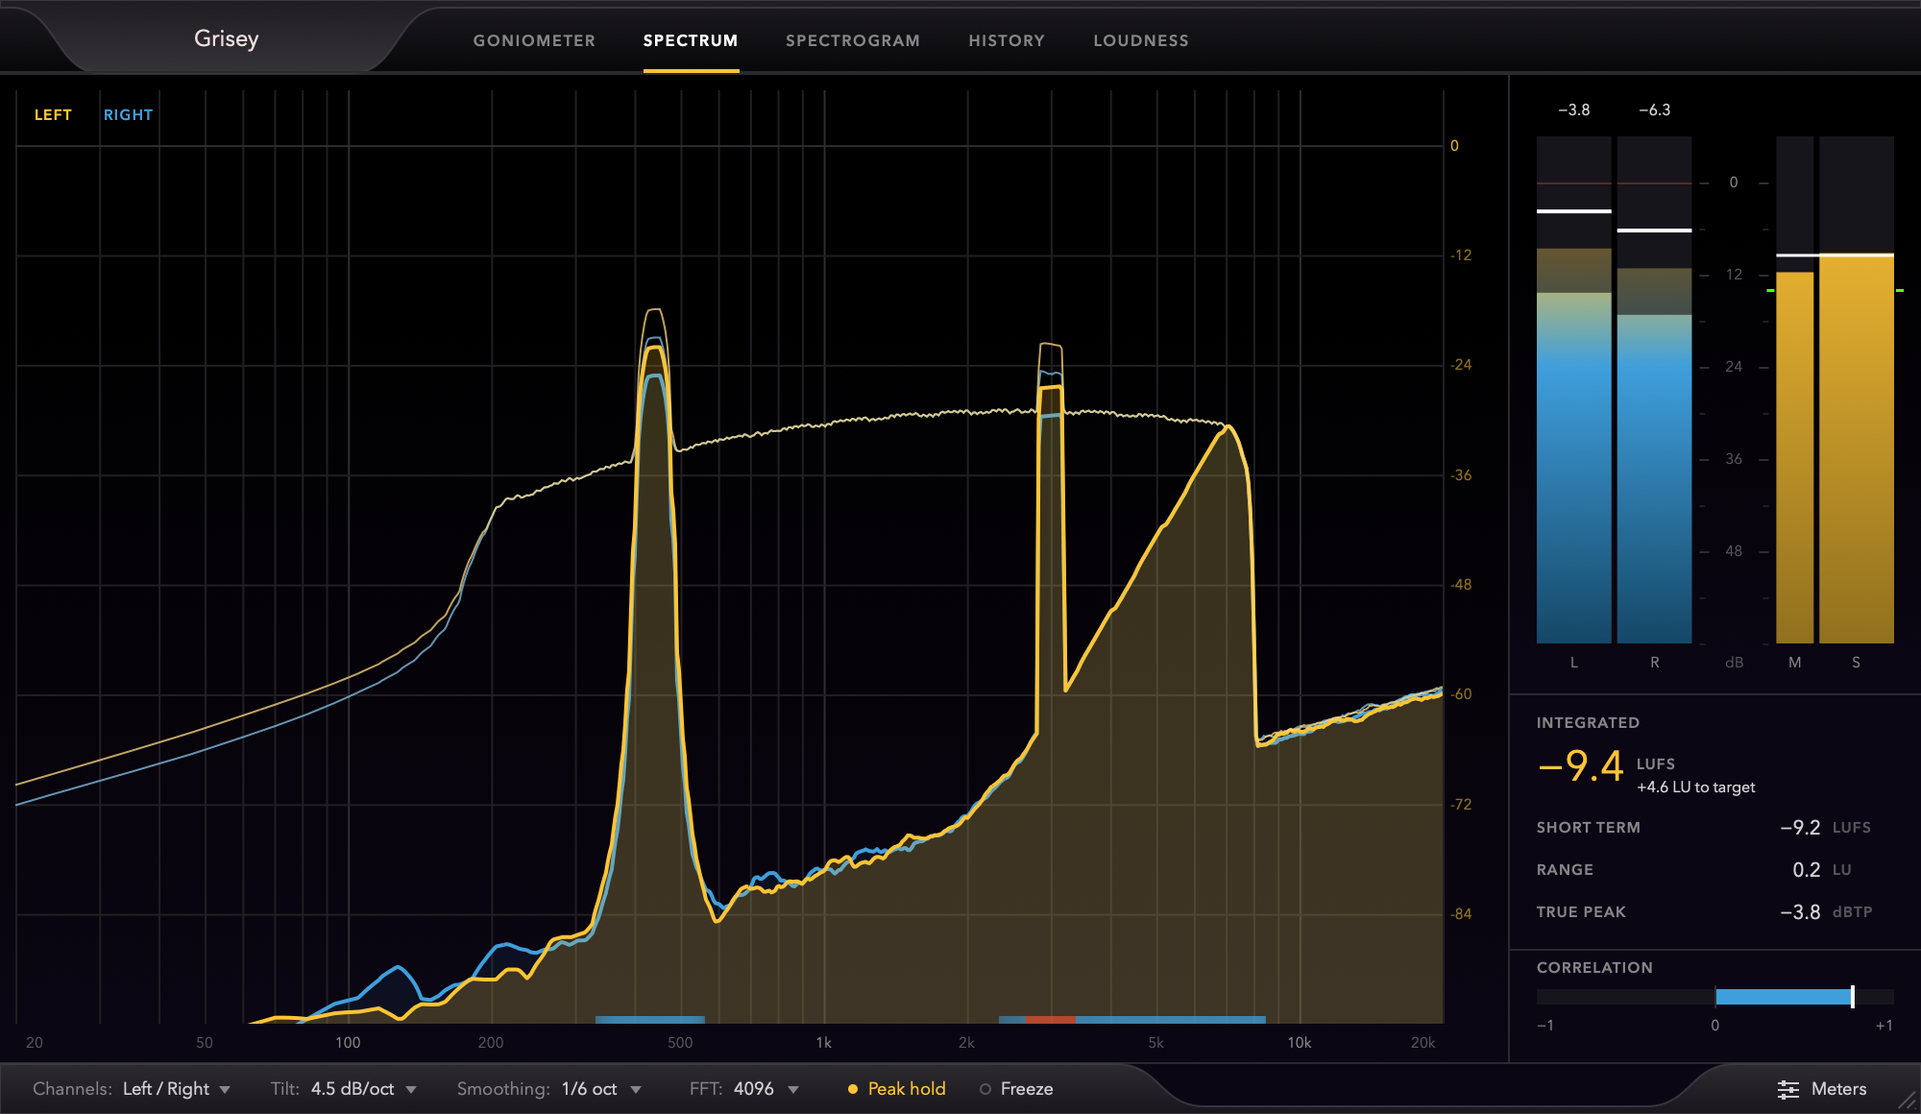
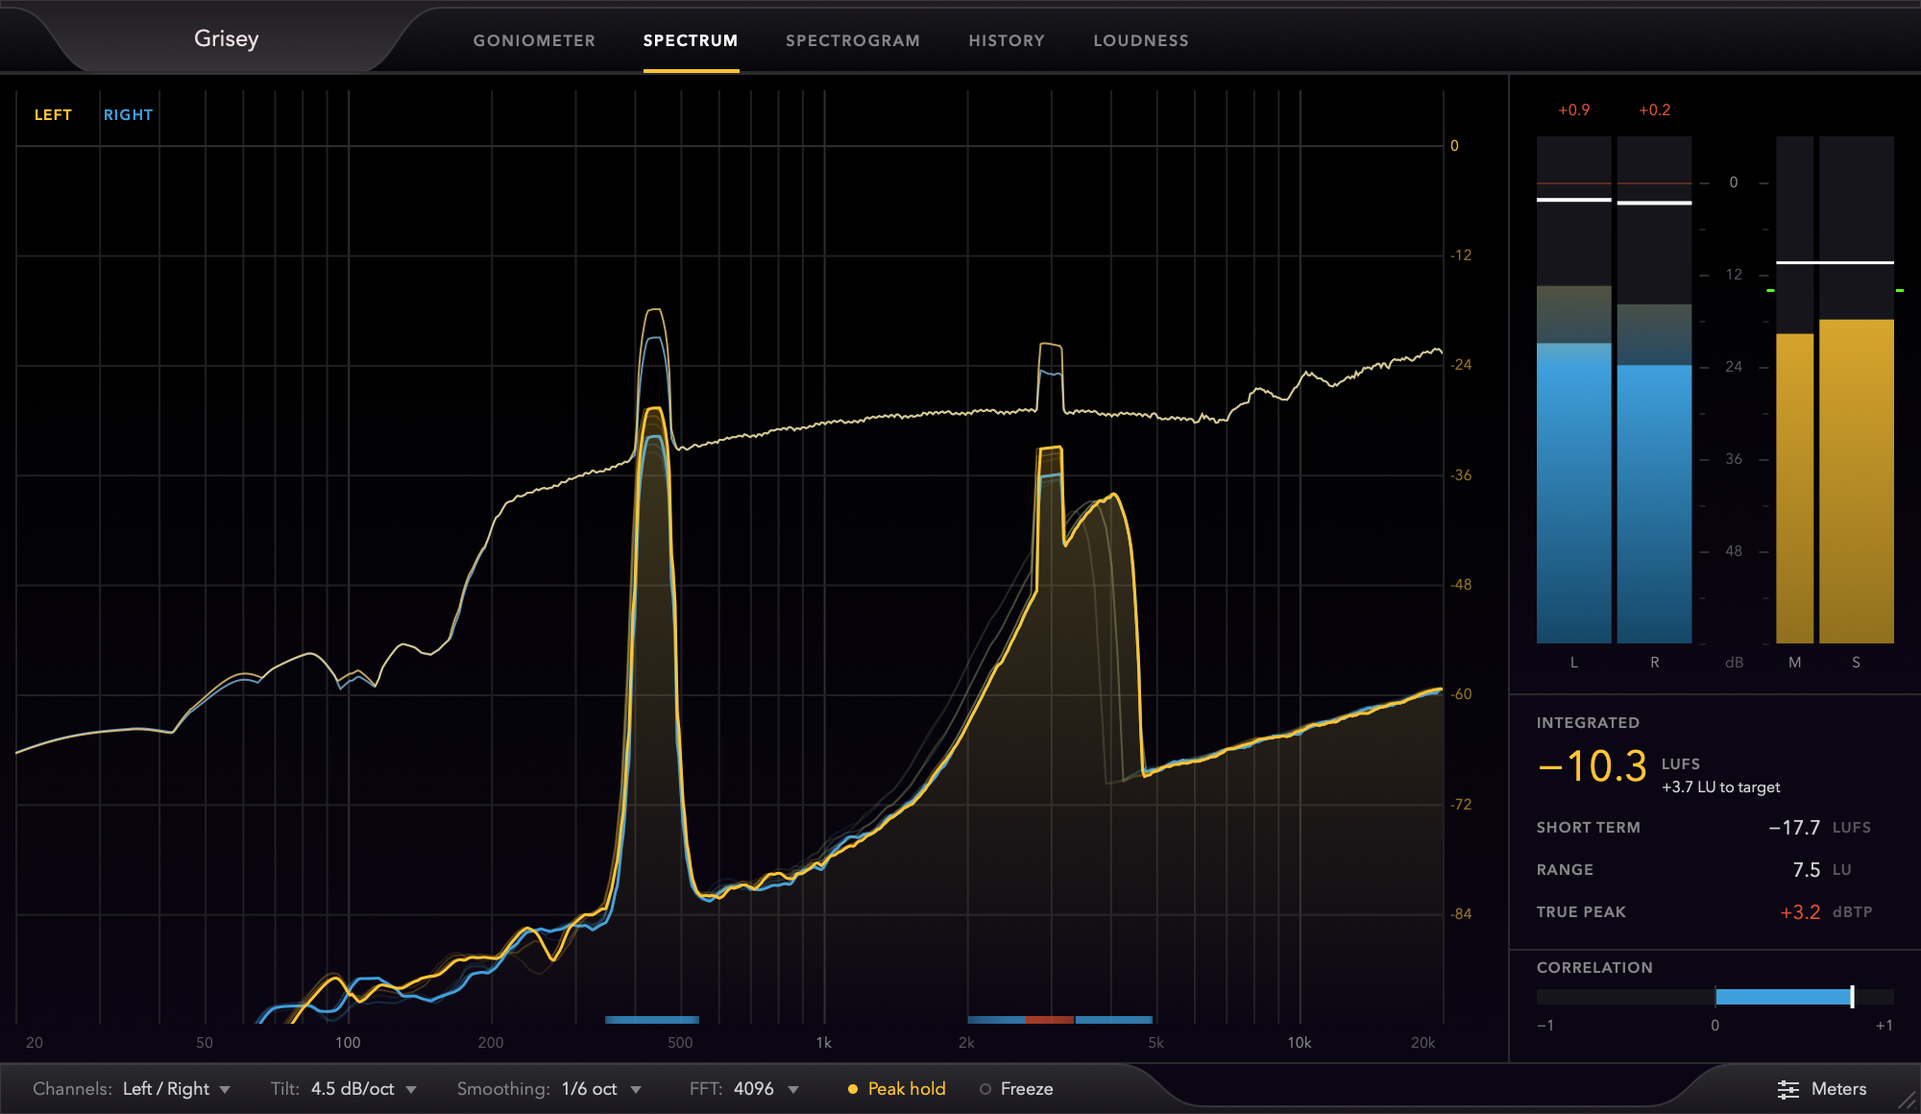
Make the spectrum move like an analyzer
- The curves rise to a new level in 25 ms and fall back over 300 ms.
  They move in every frame, not only when there is a new spectrum, so
  the motion is smooth, and they stand still while frozen.
- Three faint trails behind each curve show where it was a moment ago.
  They are drawn at a third of the resolution, which keeps the view at
  what it cost before: 14% of a core at 30 frames per second.
- A glow beneath the line that fades out downwards, in place of a flat
  fill down to the floor, and a thinner line
- At low frequencies, where the display has many points for every bin,
  the curve is a smooth spline through the bins' levels in decibels.
  Straight lines between them had shown as a row of arches. The spline
  is monotone (Fritsch-Carlson), so it cannot overshoot: a Catmull-Rom
  spline read a full-scale tone 6.8 dB high, because a tone stands
  100 dB above the bins beside it. A test now holds that down.

diff --git a/Source/Views/SpectrumView.cpp b/Source/Views/SpectrumView.cpp
@@ -76,7 +76,7 @@ void SpectrumView::paint(juce::Graphics& g)
 {
     grid.draw(g, getLocalBounds(), true, [this](juce::Graphics& layer) { paintGrid(layer); });
 
-    if (curves[0].empty())
+    if (shown[0].empty())
         return;
 
     {
@@ -89,15 +89,29 @@ void SpectrumView::paint(juce::Graphics& g)
         {
             const auto i = (size_t)index;
 
-            // A flat, translucent fill beneath a solid line
-            g.setColour(colours[i].withAlpha(index == 0 ? Theme::accentFillAlpha : Theme::secondFillAlpha));
-            g.fillPath(makePath(curves[i], true));
+            // Where the curve was a moment ago, fainter the longer ago it was
+            for (int age = numTrails; age >= 1; --age)
+            {
+                const auto& trail = trails[(size_t)((nextTrail - age + 2 * numTrails) % numTrails)][i];
+                if (trail.size() == shown[i].size())
+                {
+                    g.setColour(colours[i].withAlpha(0.42f * (float)(numTrails + 1 - age) / (float)(numTrails + 1)));
+                    g.strokePath(makePath(trail, false, trailPointStep), juce::PathStrokeType(1.f));
+                }
+            }
+
+            // A glow beneath the line, which fades out towards the bottom. The second curve usually
+            // lies over the first, as left and right do, so its glow is fainter, or the two would
+            // mix into a muddy color.
+            g.setGradientFill(juce::ColourGradient(colours[i].withAlpha(index == 0 ? 0.34f : 0.12f), 0.f, (float)plot.getY(),
+                                                   colours[i].withAlpha(0.f), 0.f, (float)plot.getBottom(), false));
+            g.fillPath(makePath(shown[i], true));
 
             g.setColour(colours[i]);
-            g.strokePath(makePath(curves[i], false), juce::PathStrokeType(Theme::curveThickness, juce::PathStrokeType::curved));
+            g.strokePath(makePath(shown[i], false), juce::PathStrokeType(1.5f, juce::PathStrokeType::curved));
 
             // The peak hold is a thin, paler line of the same color
-            if (settings.peakHold && peakHolds[i].size() == curves[i].size())
+            if (settings.peakHold && peakHolds[i].size() == shown[i].size())
             {
                 g.setColour(colours[i].brighter(0.6f).withAlpha(0.75f));
                 g.strokePath(makePath(peakHolds[i], false), juce::PathStrokeType(1.f));
@@ -133,9 +147,9 @@ void SpectrumView::paintReadout(juce::Graphics& g)
     g.fillRect((float)position.x, (float)plot.getY(), 1.f, (float)plot.getHeight());
 
     // The level of the first curve at this frequency
-    const auto index = (size_t)juce::jlimit(0, (int)curves[0].size() - 1,
-        juce::roundToInt((float)(position.x - plot.getX()) / (float)juce::jmax(1, plot.getWidth()) * (float)(curves[0].size() - 1)));
-    const float level = curves[0][index];
+    const auto index = (size_t)juce::jlimit(0, (int)shown[0].size() - 1,
+        juce::roundToInt((float)(position.x - plot.getX()) / (float)juce::jmax(1, plot.getWidth()) * (float)(shown[0].size() - 1)));
+    const float level = shown[0][index];
 
     // A point on the curve, bright with a dark outline
     const auto point = juce::Rectangle<float>(10.f, 10.f).withCentre({ (float)position.x, yOf(juce::jmax(level, minDecibels)) });
@@ -158,51 +172,55 @@ void SpectrumView::paintReadout(juce::Graphics& g)
     g.drawText(text, box, juce::Justification::centred);
 }
 
-void SpectrumView::update(bool hasNewSpectra, const Settings& newSettings)
+void SpectrumView::update(bool hasNewSpectra, const Settings& newSettings, float elapsedSeconds, bool held)
 {
     // One point per pixel is as fine as the screen can show
     const int numPoints = juce::jmax(2, plot.getWidth());
     const bool settingsChanged = numPoints != display.numPoints || !(newSettings == settings);
 
-    if (!hasNewSpectra && !settingsChanged)
-        return;
-
-    // The peak hold starts afresh whenever it would no longer be comparable
+    // Whatever is no longer comparable starts afresh
     if (settingsChanged)
+    {
         for (auto& hold : peakHolds)
             hold.clear();
+
+        for (auto& trail : trails)
+            for (auto& curve : trail)
+                curve.clear();
+    }
 
     settings = newSettings;
     display.numPoints = numPoints;
     display.tiltDbPerOctave = settings.tiltDbPerOctave;
     display.smoothingOctaves = settings.smoothingOctaves;
 
-    auto& engine = source.getEngine();
-    const auto sampleRate = source.getSampleRate();
-
-    engine.render(settings.midSide ? SpectrumEngine::Curve::mid : SpectrumEngine::Curve::left, display, sampleRate, curves[0]);
-    engine.render(settings.midSide ? SpectrumEngine::Curve::side : SpectrumEngine::Curve::right, display, sampleRate, curves[1]);
-
-    if (settings.peakHold)
+    if ((hasNewSpectra && !held) || settingsChanged)
     {
-        for (size_t i = 0; i < curves.size(); ++i)
+        auto& engine = source.getEngine();
+        const auto sampleRate = source.getSampleRate();
+
+        engine.render(settings.midSide ? SpectrumEngine::Curve::mid : SpectrumEngine::Curve::left, display, sampleRate, curves[0]);
+        engine.render(settings.midSide ? SpectrumEngine::Curve::side : SpectrumEngine::Curve::right, display, sampleRate, curves[1]);
+
+        if (settings.peakHold)
         {
-            if (peakHolds[i].size() != curves[i].size())
-                peakHolds[i] = curves[i];
+            for (size_t i = 0; i < curves.size(); ++i)
+            {
+                if (peakHolds[i].size() != curves[i].size())
+                    peakHolds[i] = curves[i];
 
-            for (size_t point = 0; point < curves[i].size(); ++point)
-                peakHolds[i][point] = juce::jmax(peakHolds[i][point], curves[i][point]);
+                for (size_t point = 0; point < curves[i].size(); ++point)
+                    peakHolds[i][point] = juce::jmax(peakHolds[i][point], curves[i][point]);
+            }
         }
-    }
 
-    // The correlation strip has one pixel per display point: blue where the channels are in phase,
-    // red where they are out of phase, and clear where they are unrelated or silent
-    engine.renderCorrelation(display, sampleRate, correlationBandOctaves, correlationQuietDb, correlation);
+        // The correlation strip has one pixel per display point: blue where the channels are in phase,
+        // red where they are out of phase, and clear where they are unrelated or silent
+        engine.renderCorrelation(display, sampleRate, correlationBandOctaves, correlationQuietDb, correlation);
 
-    if (correlationStrip.getWidth() != numPoints)
-        correlationStrip = juce::Image(juce::Image::ARGB, numPoints, 1, true);
+        if (correlationStrip.getWidth() != numPoints)
+            correlationStrip = juce::Image(juce::Image::ARGB, numPoints, 1, true);
 
-    {
         juce::Image::BitmapData pixels(correlationStrip, juce::Image::BitmapData::writeOnly);
         for (int point = 0; point < numPoints; ++point)
         {
@@ -213,10 +231,56 @@ void SpectrumView::update(bool hasNewSpectra, const Settings& newSettings)
         }
     }
 
-    repaint();
+    if (held || curves[0].empty())
+    {
+        if (settingsChanged)
+            repaint();
+
+        return;
+    }
+
+    // Move what is drawn towards the latest spectrum: quickly up, and slowly down
+    const float attack = 1.f - std::exp(-elapsedSeconds / attackSeconds);
+    const float release = 1.f - std::exp(-elapsedSeconds / releaseSeconds);
+    float furthestMoved = 0.f;
+
+    for (size_t i = 0; i < curves.size(); ++i)
+    {
+        // A curve that is new, or of a new length, starts where it is heading
+        if (shown[i].size() != curves[i].size())
+        {
+            shown[i] = curves[i];
+            furthestMoved = 100.f;
+            continue;
+        }
+
+        for (size_t point = 0; point < curves[i].size(); ++point)
+        {
+            // Below the bottom of the plot there is nothing to see, so nothing to wait for
+            const float target = juce::jmax(curves[i][point], minDecibels - 6.f);
+            const float from = juce::jmax(shown[i][point], minDecibels - 6.f);
+            const float to = from + (target - from) * (target > from ? attack : release);
+
+            furthestMoved = juce::jmax(furthestMoved, std::abs(to - from));
+            shown[i][point] = to;
+        }
+    }
+
+    // Keep a copy of where the curves are, every so often, for the trails
+    secondsSinceTrail += elapsedSeconds;
+    if (secondsSinceTrail >= trailIntervalSeconds)
+    {
+        secondsSinceTrail = 0.f;
+        trails[(size_t)nextTrail] = shown;
+        nextTrail = (nextTrail + 1) % numTrails;
+    }
+
+    // A twentieth of a decibel is less than a pixel
+    if (furthestMoved > 0.05f || settingsChanged)
+        repaint();
 }
 
-juce::Path SpectrumView::makePath(const std::vector<float>& decibels, bool closed) const
+juce::Path SpectrumView::makePath(const std::vector<float>& decibels, bool closed, int pointStep) const
 {
     juce::Path path;
     if (decibels.size() < 2)
@@ -225,10 +289,16 @@ juce::Path SpectrumView::makePath(const std::vector<float>& decibels, bool close
     path.preallocateSpace(3 * (int)decibels.size() + 12);
 
     const float xStep = (float)plot.getWidth() / (float)(decibels.size() - 1);
-    for (size_t point = 0; point < decibels.size(); ++point)
+    const auto step = (size_t)juce::jmax(1, pointStep);
+    for (size_t point = 0; point < decibels.size(); point += step)
     {
+        // A point that stands for several takes the highest of them, so that a narrow peak is kept
+        float highest = decibels[point];
+        for (size_t other = point + 1; other < juce::jmin(point + step, decibels.size()); ++other)
+            highest = juce::jmax(highest, decibels[other]);
+
         // A little below the bottom, so that the stroke of a silent curve is out of sight
-        const float y = yOf(juce::jmax(decibels[point], minDecibels - 3.f));
+        const float y = yOf(juce::jmax(highest, minDecibels - 3.f));
         const float x = (float)plot.getX() + xStep * (float)point;
 
         if (point == 0)

diff --git a/Source/Views/SpectrumView.h b/Source/Views/SpectrumView.h
@@ -20,6 +20,19 @@ public:
     // The correlation of each point is taken over a band of at least this width
     static constexpr float correlationBandOctaves = 1.f / 3.f;
 
+    // How the curves move. They rise to a new level almost at once, and fall back slowly and
+    // smoothly, which is easier to read than a curve that follows every frame, and they move in
+    // every frame, whether or not there is a new spectrum, so the motion is never jerky.
+    static constexpr float attackSeconds = 0.025f;
+    static constexpr float releaseSeconds = 0.30f;
+
+    // Behind each curve are faint copies of where it was a moment ago, which show how it is moving
+    static constexpr int numTrails = 3;
+    static constexpr float trailIntervalSeconds = 0.07f;
+
+    // A trail is faint, so it is drawn with a point for every few of the curve's, which costs less
+    static constexpr int trailPointStep = 3;
+
     // Bands that are quieter than this have no correlation to show. The correlation of a noise floor
     // is as random as the noise, so the strip only speaks where there is signal.
     static constexpr float correlationQuietDb = -72.f;
@@ -51,16 +64,18 @@ public:
     // Clicking the view restarts the peak hold
     void mouseDown(const juce::MouseEvent&) override;
 
-    // Lays out the curves again from the source's spectra, called by the editor once per frame.
-    // hasNewSpectra says whether the source has analyzed new audio since the last call.
-    void update(bool hasNewSpectra, const Settings& newSettings);
+    // Moves the curves towards the source's spectra, called by the editor once per frame.
+    // hasNewSpectra says whether the source has analyzed new audio since the last call. While
+    // held, the curves stand still.
+    void update(bool hasNewSpectra, const Settings& newSettings, float elapsedSeconds, bool held);
 
 private:
     void paintGrid(juce::Graphics& g);
     void paintReadout(juce::Graphics& g);
 
     // Builds the path of a curve within the plot. A closed path runs along the bottom for filling.
-    juce::Path makePath(const std::vector<float>& decibels, bool closed) const;
+    // pointStep is how many of the curve's points each point of the path stands for.
+    juce::Path makePath(const std::vector<float>& decibels, bool closed, int pointStep = 1) const;
 
     float xOf(double frequency) const;
     float yOf(float decibels) const;
@@ -71,8 +86,14 @@ private:
     // The plot is the view less the margins that hold the labels of the axes
     juce::Rectangle<int> plot;
 
-    // The curves in decibels, one value per display point
-    std::array<std::vector<float>, 2> curves, peakHolds;
+    // In decibels, one value per display point: where the curves are heading, which is the latest
+    // spectrum, where they are drawn, which follows it, and the highest that they have been
+    std::array<std::vector<float>, 2> curves, shown, peakHolds;
+
+    // Where the curves were drawn a moment ago, the oldest first once they are in order
+    std::array<std::array<std::vector<float>, 2>, numTrails> trails;
+    int nextTrail = 0;
+    float secondsSinceTrail = 0.f;
     std::vector<float> correlation;
 
     // One pixel per display point, which paint stretches over the strip

diff --git a/Source/Engine/SpectrumEngine.h b/Source/Engine/SpectrumEngine.h
@@ -157,12 +157,39 @@ public:
 
                 if (first > last)
                 {
-                    // Where the points are closer together than the bins, the curve runs smoothly from bin to bin
+                    // Where the points are closer together than the bins, as they are at low frequencies,
+                    // the curve runs through the bins as a smooth spline of their levels in decibels.
+                    // Straight lines between them would show as a row of arches. The spline keeps the
+                    // shape of the bins: it never goes above the higher or below the lower of the two
+                    // that it runs between, which matters because a tone stands 100 dB above the bins
+                    // beside it, and a spline that was free to overshoot would read several decibels high.
                     const double position = juce::jlimit(0.0, static_cast<double>(numBins - 1), 0.5 * (cellLowBin + cellHighBin));
-                    const auto lower = static_cast<size_t>(position);
-                    const auto upper = juce::jmin(lower + 1, static_cast<size_t>(numBins - 1));
-                    const double fraction = position - static_cast<double>(lower);
-                    power = powerOf(curve, lower) * (1.0 - fraction) + powerOf(curve, upper) * fraction;
+                    const int lower = static_cast<int>(position);
+                    const double t = position - static_cast<double>(lower);
+
+                    auto levelOf = [&](int bin)
+                    {
+                        const double p = powerOf(curve, static_cast<size_t>(juce::jlimit(0, numBins - 1, bin)));
+                        return 10.0 * std::log10(juce::jmax(p, 1.0e-15));
+                    };
+
+                    const double p0 = levelOf(lower - 1), p1 = levelOf(lower), p2 = levelOf(lower + 1), p3 = levelOf(lower + 2);
+
+                    // The slope at a bin is the harmonic mean of the slopes on either side of it,
+                    // and zero at a peak or a dip (Fritsch and Carlson's monotone cubic)
+                    auto slopeBetween = [](double before, double after)
+                    {
+                        return before * after > 0.0 ? 2.0 * before * after / (before + after) : 0.0;
+                    };
+
+                    const double m1 = slopeBetween(p1 - p0, p2 - p1);
+                    const double m2 = slopeBetween(p2 - p1, p3 - p2);
+
+                    // A cubic Hermite curve from p1 to p2 with those slopes
+                    const double t2 = t * t, t3 = t2 * t;
+                    const double level = (2.0 * t3 - 3.0 * t2 + 1.0) * p1 + (t3 - 2.0 * t2 + t) * m1
+                                       + (-2.0 * t3 + 3.0 * t2) * p2 + (t3 - t2) * m2;
+                    power = std::pow(10.0, level / 10.0);
                 }
             }
 

diff --git a/Tests/SpectrumTests.cpp b/Tests/SpectrumTests.cpp
@@ -99,6 +99,21 @@ struct SpectrumEngineTests : juce::UnitTest
             expectWithinAbsoluteError(peak.frequency, frequency, frequency * 0.01);
         }
 
+        beginTest("The curve between the bins never rises above them");
+        {
+            // At low frequencies the display has many points for every bin. A tone there stands far above
+            // the bins beside it, and the curve drawn through them must not overshoot it.
+            SpectrumEngine engine;
+            const double frequency = 5.0 * spectrumSampleRate / engine.getSize();
+            const auto tone = makeTone(frequency, 1.0, length);
+            analyzeSignal(engine, tone, tone);
+            engine.render(SpectrumEngine::Curve::left, display, spectrumSampleRate, curve);
+
+            const auto peak = findPeak(curve, display);
+            expect(peak.level <= 0.05f && peak.level > -0.5f, "Read " + juce::String(peak.level, 2) + " dB");
+            expectWithinAbsoluteError(peak.frequency, frequency, frequency * 0.05);
+        }
+
         beginTest("A sine between two bins reads within the 1.5 dB that a Hann window loses");
         {
             SpectrumEngine engine;

diff --git a/Source/PluginEditor.cpp b/Source/PluginEditor.cpp
@@ -367,7 +367,7 @@ void GriseyAudioProcessorEditor::updateMeters(float elapsedSeconds)
             spectrumSettings.tiltDbPerOctave = tilt;
             spectrumSettings.smoothingOctaves = valueAt(spectrumSmoothingOctaves, getChoice(ID::spectrumSmoothing));
             spectrumSettings.peakHold = isOn(ID::spectrumPeakHold);
-            spectrumView.update(hasNewSpectra && !frozen, spectrumSettings);
+            spectrumView.update(hasNewSpectra, spectrumSettings, elapsedSeconds, frozen);
         }
     }
 }

diff --git a/ROADMAP.md b/ROADMAP.md
@@ -99,6 +99,14 @@ costs about 0.15% of one core at 48 kHz.
       30 or 60 s). What is recorded is kept as data, so resizing the window or changing the span
       draws the pictures again without losing anything. Freezing holds the pictures still while
       the recording carries on underneath.
+- [x] The spectrum moves like an analyzer should: the curves rise to a new level in 25 ms and fall
+      back over 300 ms, in every frame rather than only when there is a new spectrum, with three
+      faint trails of where they were, a glow beneath the line that fades out downwards, and a
+      smooth curve through the few bins at low frequencies, where straight lines had shown as a
+      row of arches. The curve through the bins is a monotone spline: a Catmull-Rom spline was
+      tried first and read a full-scale tone 6.8 dB high, because a tone stands 100 dB above the
+      bins beside it. The trails are drawn at a third of the resolution, which brought the view
+      back to what it cost before (14% of a core at 30 frames per second).
 - [ ] Try everything that a picture cannot show, by hand: the menus, the tabs, the readouts under
       the mouse, dragging the knob and the corner of the window, and the reset buttons
 - [ ] The spectrogram and the history have one image column per slot of the timeline, stretched

diff --git a/README.md b/README.md
@@ -28,6 +28,7 @@ Grisey is a free, open-source metering plugin for mixing and mastering. One resi
 - FFT sizes from 2048 to 16384 points, scaled so that a full-scale sine reads 0 dB.
 - Left / right or mid / side, adjustable tilt, fractional-octave smoothing, peak hold, and freeze.
 - A correlation strip along the bottom shows, band by band, where the channels are in phase and where they are out of phase.
+- The curves rise at once and fall back smoothly, with faint trails that show how they are moving.
 - Under the mouse: the frequency, the nearest note, and the level.
 
 ### Spectrogram
